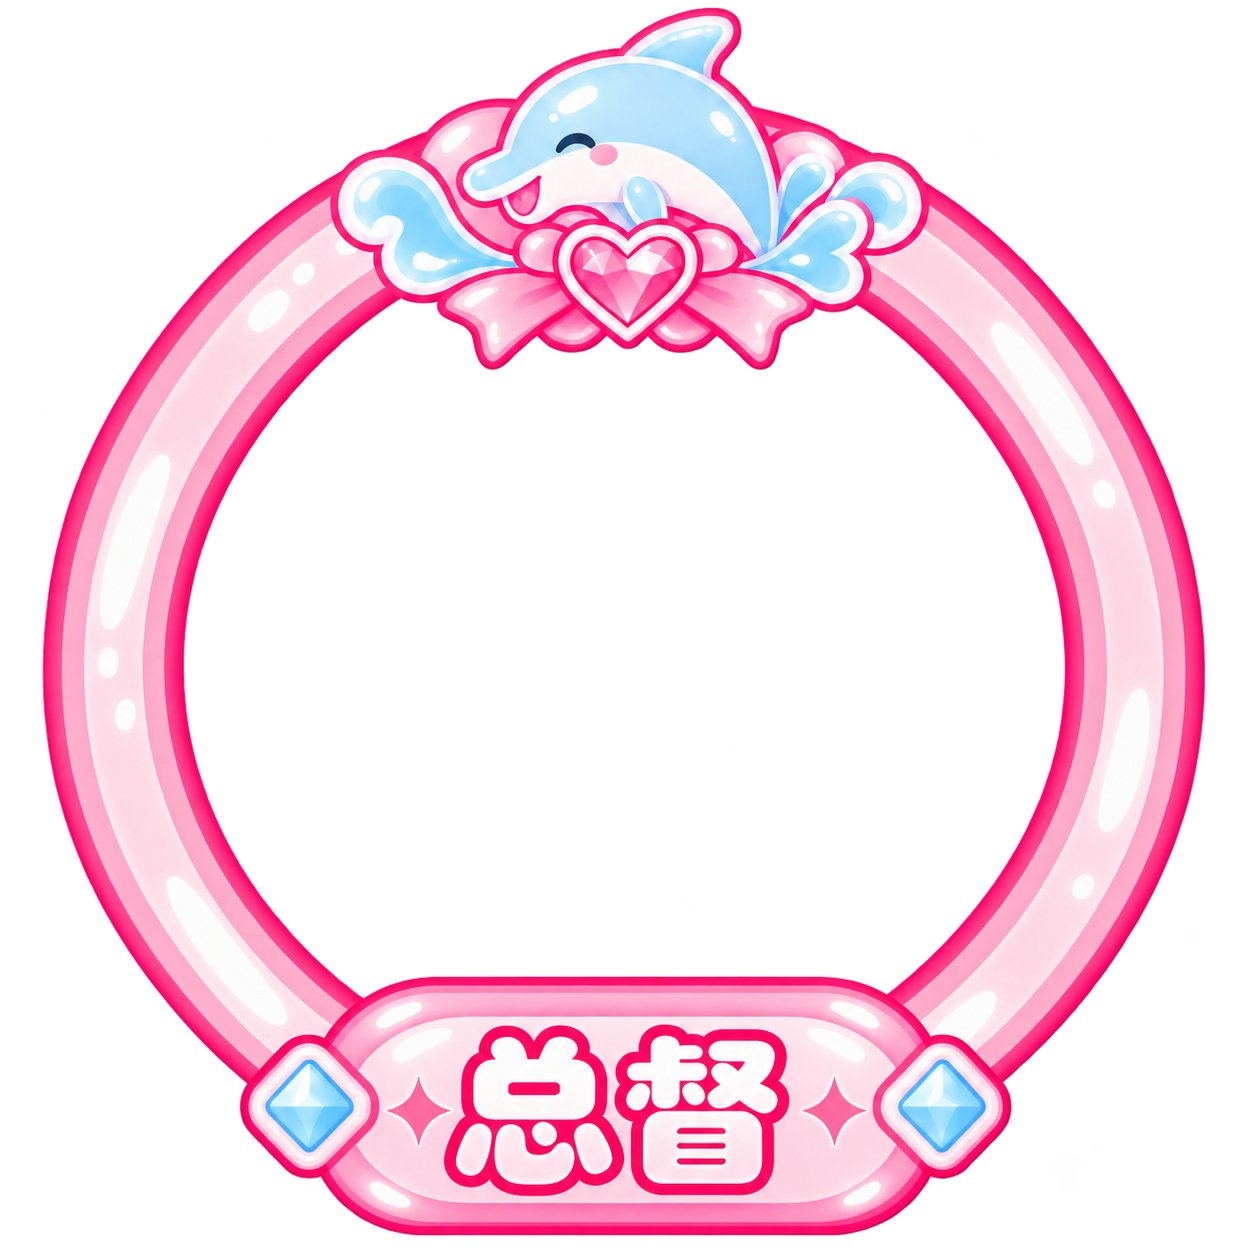
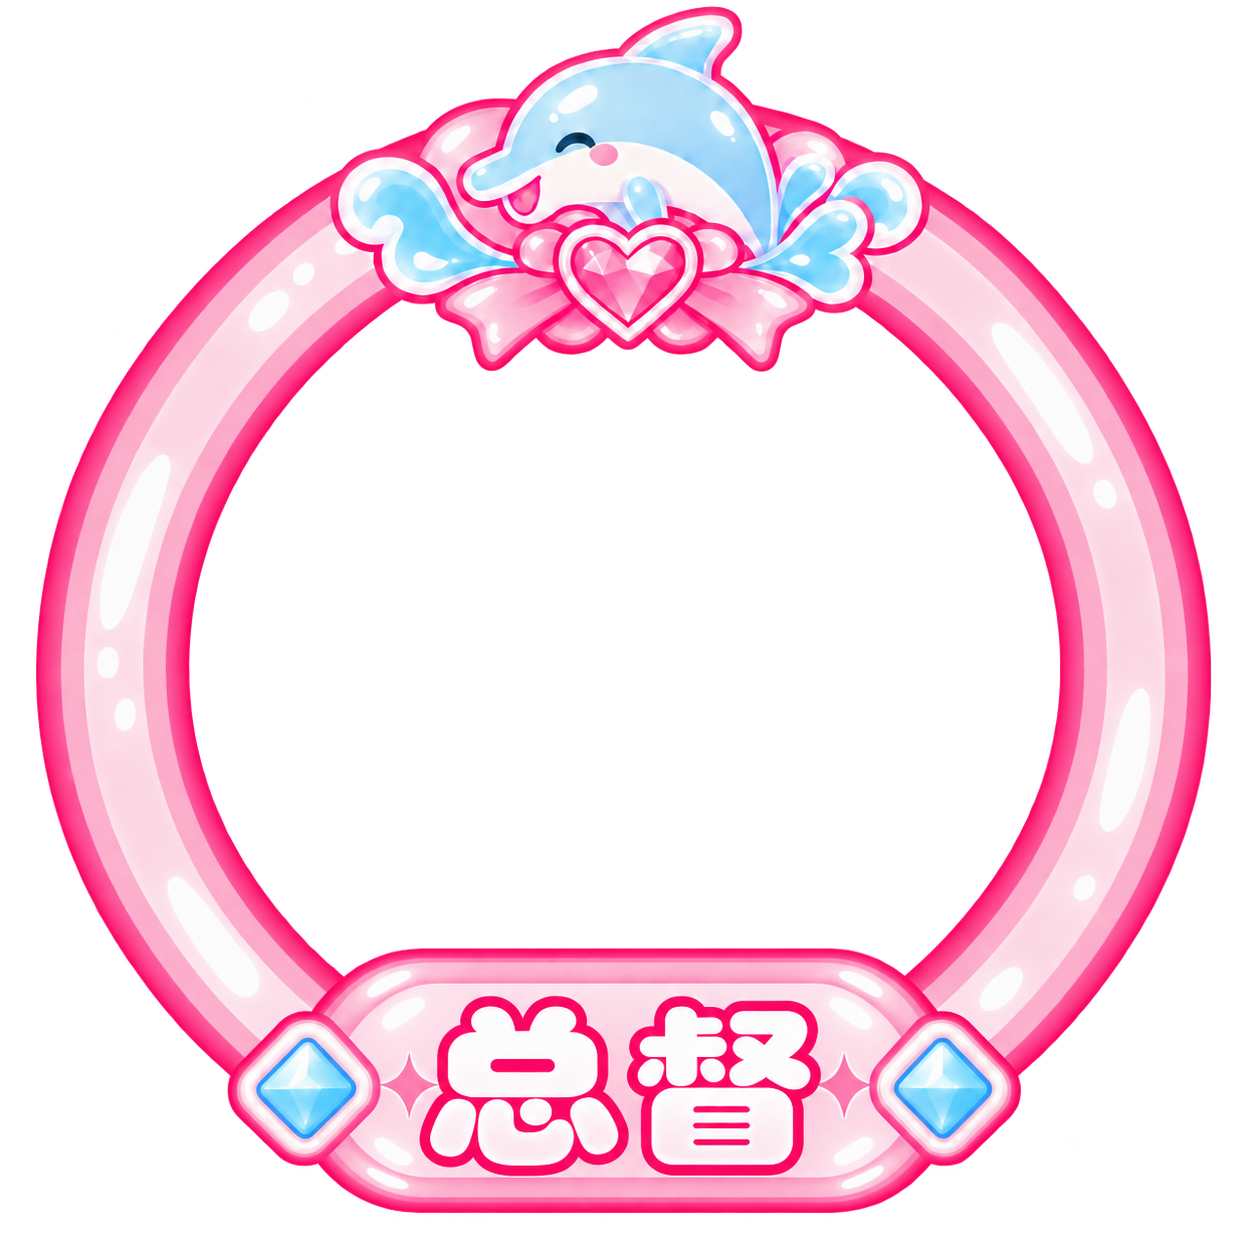
chore: 删除不再使用的 laplace-message-frame-decorated.css，更新总督头像框
- 移除 laplace-message-frame-decorated.css（功能已由 dudu-pink-dolphin.css 取代）
- 更新 assets/avatar/zd.png（总督头像装饰框）
- dudu-pink-dolphin.css 版本升至 1.0.15

diff --git a/dudu-pink-dolphin.css b/dudu-pink-dolphin.css
@@ -2,8 +2,8 @@
   @title        海豚也是豚
   @description  粉色弹幕气泡：自适应正文框 + 顶部用户名名牌，荆南圆体，中英日字体，蝴蝶结/珠链/糖果角标，按大航海等级切换头像装饰框
   @author       JoJoWu
-  @updated      September 09, 2026, 10:20:44 PM GMT+8
-  @version      1.0.14
+  @updated      September 09, 2026, 10:32:26 PM GMT+8
+  @version      1.0.15
 */
 
 /* 引入荆南圆体（ZeoSeven Fonts 在线分包，SIL OFL 1.1） */
